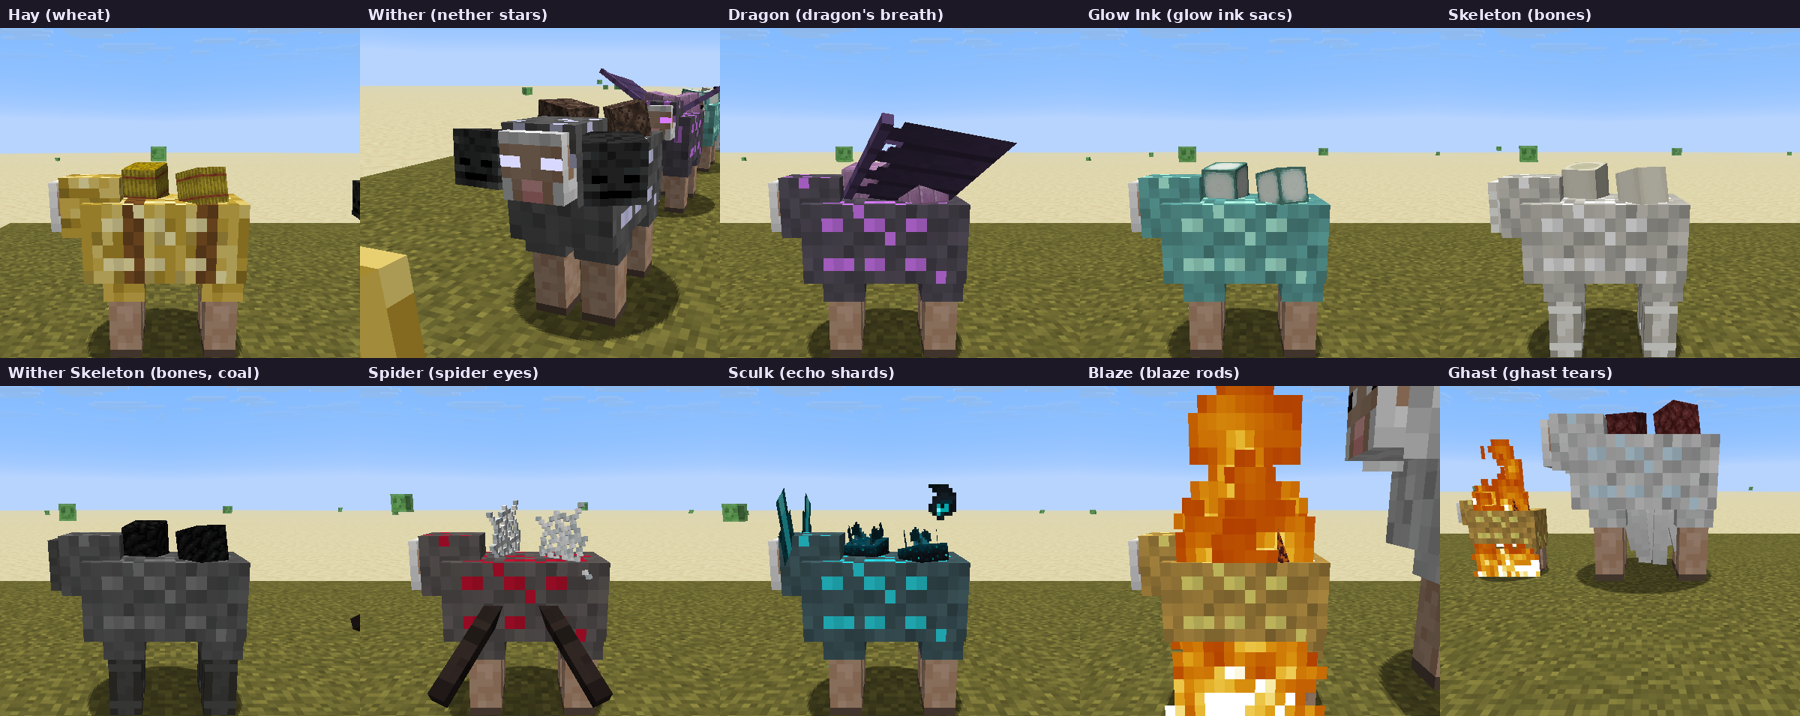
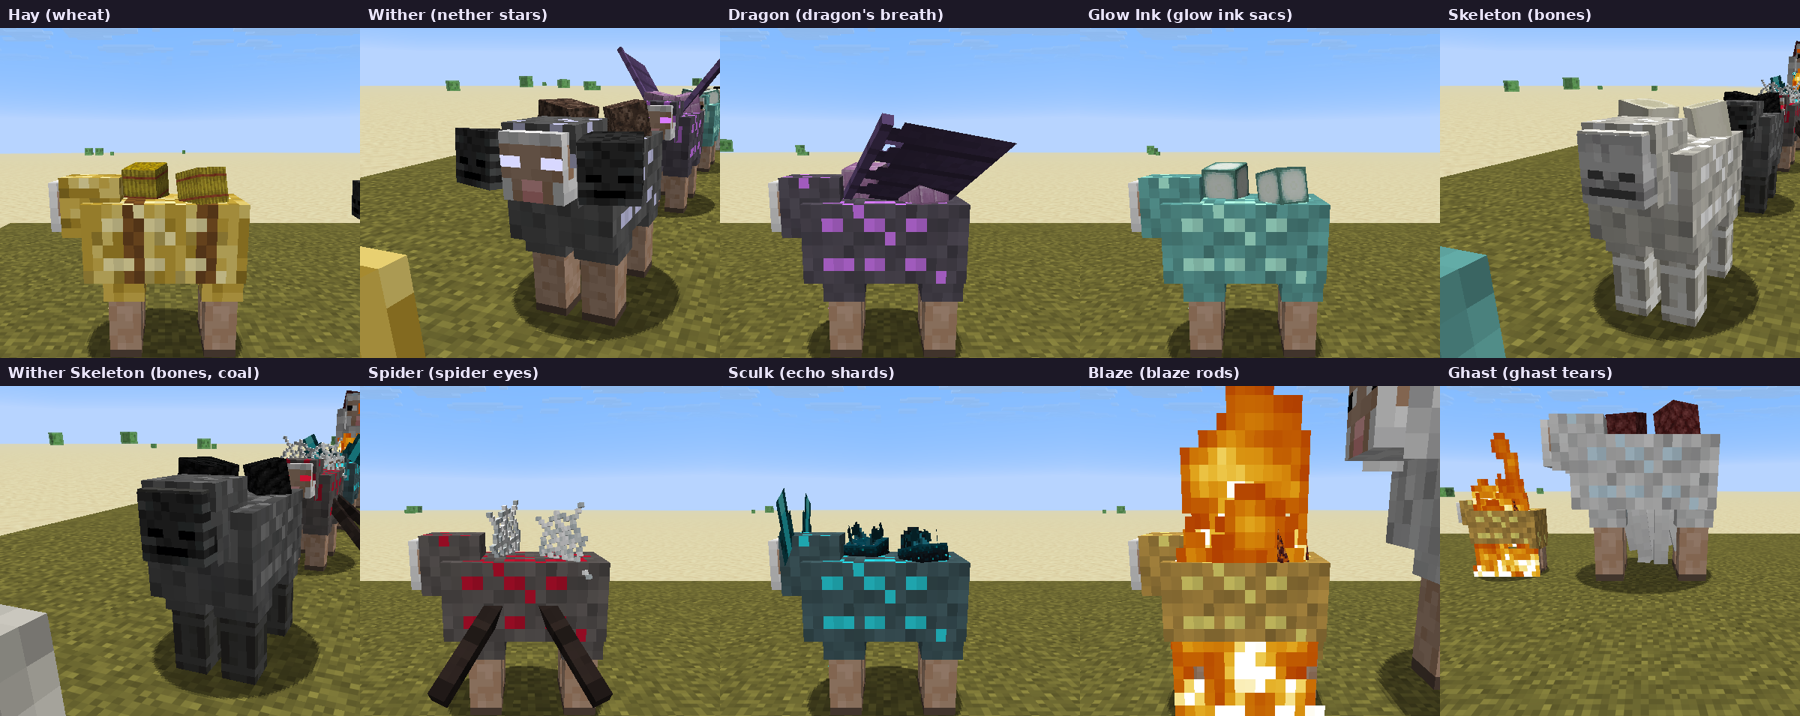
Give the skeleton sheep real skull faces
Resource appearances take an optional "skull_texture" (a 64x32 mob-head
texture) drawn untinted over the sheep's head with a new skull-face
model that follows the head. The Skeleton sheep wears the Skeleton
Skull and the Wither Skeleton sheep the Wither Skeleton Skull. Adds
front-on screenshots of both.

Claude-Session: https://claude.ai/code/session_012iurxobutw9xMP3SqHHLFE

diff --git a/src/main/java/com/jax3/barelyfunctionalcontraptions/sheep/resource/SheepAppearance.java b/src/main/java/com/jax3/barelyfunctionalcontraptions/sheep/resource/SheepAppearance.java
@@ -29,25 +29,29 @@ import net.minecraft.util.StringRepresentable;
  * @param scale        how big the sheep is while infused, as a multiple of its normal size (0.25 to 4; default 1).
  *                     Applied through the {@code minecraft:scale} attribute, so its hitbox, eye height and step
  *                     height grow with it.
+ * @param skullTexture a mob-head texture (the 64x32 layout skulls use, e.g. the skeleton's) drawn untinted over the
+ *                     sheep's head, so its face is that mob's skull
  * @param sounds       sounds played instead of the sheep's bleat, hurt and death sounds while it is infused (even when
  *                     sheared)
  */
-public record SheepAppearance(Optional<Identifier> woolTexture, List<Feature> features, int featureColor, double scale, Sounds sounds) {
+public record SheepAppearance(Optional<Identifier> woolTexture, List<Feature> features, int featureColor, double scale,
+                              Optional<Identifier> skullTexture, Sounds sounds) {
     public static final double MIN_SCALE = 0.25;
     public static final double MAX_SCALE = 4.0;
-    public static final SheepAppearance NONE = new SheepAppearance(Optional.empty(), List.of(), 0xFFFFFF, 1.0, Sounds.NONE);
+    public static final SheepAppearance NONE = new SheepAppearance(Optional.empty(), List.of(), 0xFFFFFF, 1.0, Optional.empty(), Sounds.NONE);
 
     public static final Codec<SheepAppearance> CODEC = RecordCodecBuilder.create(i -> i.group(
             Identifier.CODEC.optionalFieldOf("wool_texture").forGetter(SheepAppearance::woolTexture),
             Feature.CODEC.listOf().optionalFieldOf("features", List.of()).forGetter(SheepAppearance::features),
             SheepResource.COLOR_CODEC.optionalFieldOf("feature_color", 0xFFFFFF).forGetter(SheepAppearance::featureColor),
             Codec.doubleRange(MIN_SCALE, MAX_SCALE).optionalFieldOf("scale", 1.0).forGetter(SheepAppearance::scale),
+            Identifier.CODEC.optionalFieldOf("skull_texture").forGetter(SheepAppearance::skullTexture),
             Sounds.CODEC.optionalFieldOf("sounds", Sounds.NONE).forGetter(SheepAppearance::sounds)
     ).apply(i, SheepAppearance::new));
 
     /** The same appearance with another fleece texture. */
     public SheepAppearance withWoolTexture(Identifier texture) {
-        return new SheepAppearance(Optional.of(texture), features, featureColor, scale, sounds);
+        return new SheepAppearance(Optional.of(texture), features, featureColor, scale, skullTexture, sounds);
     }
 
     public boolean has(Feature feature) {
@@ -55,7 +59,7 @@ public record SheepAppearance(Optional<Identifier> woolTexture, List<Feature> fe
     }
 
     public boolean isEmpty() {
-        return woolTexture.isEmpty() && features.isEmpty() && scale == 1.0 && sounds.isEmpty();
+        return woolTexture.isEmpty() && features.isEmpty() && scale == 1.0 && skullTexture.isEmpty() && sounds.isEmpty();
     }
 
     /**

diff --git a/src/main/java/com/jax3/barelyfunctionalcontraptions/sheep/client/SheepSkullFaceModel.java b/src/main/java/com/jax3/barelyfunctionalcontraptions/sheep/client/SheepSkullFaceModel.java
@@ -1,0 +1,41 @@
+package com.jax3.barelyfunctionalcontraptions.sheep.client;
+
+import com.jax3.barelyfunctionalcontraptions.sheep.ResourcefulSheep;
+import net.minecraft.client.model.animal.sheep.SheepModel;
+import net.minecraft.client.model.geom.ModelLayerLocation;
+import net.minecraft.client.model.geom.ModelPart;
+import net.minecraft.client.model.geom.PartPose;
+import net.minecraft.client.model.geom.builders.CubeDeformation;
+import net.minecraft.client.model.geom.builders.CubeListBuilder;
+import net.minecraft.client.model.geom.builders.LayerDefinition;
+import net.minecraft.client.model.geom.builders.MeshDefinition;
+import net.minecraft.client.model.geom.builders.PartDefinition;
+
+/**
+ * A mob's skull worn as the sheep's head (a resource's {@code skull_texture}, e.g. the Skeleton sheep's).
+ *
+ * <p>The skull is the vanilla mob-head cube (8x8x8 at texture offset 0,0 of a 64x32 texture, as the skull blocks
+ * use) squashed to the sheep's 6x6x8 head and a hair larger, so it covers it. Only the head is drawn; the other parts
+ * are empty but named like {@link SheepModel}'s, so the skull turns and grazes with the sheep.</p>
+ */
+public class SheepSkullFaceModel extends SheepModel {
+    public static final ModelLayerLocation LAYER = new ModelLayerLocation(ResourcefulSheep.id("sheep_skull_face"), "main");
+
+    public SheepSkullFaceModel(ModelPart root) {
+        super(root);
+    }
+
+    public static LayerDefinition createLayer() {
+        MeshDefinition mesh = new MeshDefinition();
+        PartDefinition root = mesh.getRoot();
+        // Head pivot as SheepModel (0, 6, -8); the sheep's head box is x -3..3, y -4..2, z -6..2 around it.
+        PartDefinition head = root.addOrReplaceChild("head", CubeListBuilder.create(), PartPose.offset(0.0F, 6.0F, -8.0F));
+        head.addOrReplaceChild("skull", CubeListBuilder.create().texOffs(0, 0).addBox(-4.0F, -4.0F, -4.0F, 8.0F, 8.0F, 8.0F, new CubeDeformation(0.08F)),
+                PartPose.offset(0.0F, -1.0F, -2.0F).scaled(0.75F, 0.75F, 1.0F));
+        root.addOrReplaceChild("body", CubeListBuilder.create(), PartPose.ZERO);
+        for (String leg : new String[]{"right_hind_leg", "left_hind_leg", "right_front_leg", "left_front_leg"}) {
+            root.addOrReplaceChild(leg, CubeListBuilder.create(), PartPose.ZERO);
+        }
+        return LayerDefinition.create(mesh, 64, 32);
+    }
+}

diff --git a/src/main/java/com/jax3/barelyfunctionalcontraptions/sheep/client/InfusedWoolLayer.java b/src/main/java/com/jax3/barelyfunctionalcontraptions/sheep/client/InfusedWoolLayer.java
@@ -66,6 +66,7 @@ public class InfusedWoolLayer extends RenderLayer<SheepRenderState, SheepModel> 
     private final SheepExtrasModel eyes;
     private final SheepModel bones;
     private final SheepSkullsModel skulls;
+    private final SheepSkullFaceModel skullFace;
 
     public InfusedWoolLayer(RenderLayerParent<SheepRenderState, SheepModel> renderer, EntityModelSet models) {
         super(renderer);
@@ -75,6 +76,7 @@ public class InfusedWoolLayer extends RenderLayer<SheepRenderState, SheepModel> 
         this.eyes = SheepExtrasModel.eyes(models.bakeLayer(SheepExtrasModel.LAYER));
         this.bones = new SheepModel(models.bakeLayer(BONES_LAYER));
         this.skulls = new SheepSkullsModel(models.bakeLayer(SheepSkullsModel.LAYER));
+        this.skullFace = new SheepSkullFaceModel(models.bakeLayer(SheepSkullFaceModel.LAYER));
     }
 
     /** The vanilla sheep body ({@code SheepModel.createBodyLayer}) inflated by a tiny amount. */
@@ -189,10 +191,14 @@ public class InfusedWoolLayer extends RenderLayer<SheepRenderState, SheepModel> 
     /** The extra body parts, bones and glowing eyes a resource's {@code appearance} asks for. */
     private void submitFeatures(PoseStack poseStack, SubmitNodeCollector collector, int lightCoords, SheepRenderState state, Colors colors) {
         SheepAppearance appearance = colors.appearance();
-        if (appearance.features().isEmpty() || state.isInvisible) return;
+        if ((appearance.features().isEmpty() && appearance.skullTexture().isEmpty()) || state.isInvisible) return;
         int tint = ARGB.opaque(appearance.featureColor());
         if (appearance.has(Feature.BONES)) {
             coloredCutoutModelCopyLayerRender(bones, BONES_TEXTURE, poseStack, collector, lightCoords, state, tint, 1);
+        }
+        if (appearance.skullTexture().isPresent()) {
+            // A mob's own skull texture over the head, untinted (the Skeleton sheep wears a Skeleton Skull).
+            coloredCutoutModelCopyLayerRender(skullFace, appearance.skullTexture().get(), poseStack, collector, lightCoords, state, -1, 1);
         }
         if (appearance.has(Feature.EXTRA_HEADS)) {
             // The game's own Wither Skeleton Skull texture, untinted.

diff --git a/src/main/java/com/jax3/barelyfunctionalcontraptions/sheep/client/DevScreenshotHarness.java b/src/main/java/com/jax3/barelyfunctionalcontraptions/sheep/client/DevScreenshotHarness.java
@@ -1118,7 +1118,7 @@ public final class DevScreenshotHarness {
 
     private static void themedSheepTick(Minecraft mc, MinecraftServer server) {
         // 60: stage; 120: overview; then one close-up per sheep every 25 ticks; then the overview again at night.
-        int closeStart = 130, perSheep = 25, night = closeStart + THEMED.length * perSheep + 65;
+        int closeStart = 130, perSheep = 25, night = closeStart + THEMED.length * perSheep + 125;
         if (tick == 60) server.execute(() -> themedSheepScene(server));
         else if (tick == 70) setHudHidden(mc, true);
         else if (tick == 120) shot(mc, "52_themed_sheep");
@@ -1132,6 +1132,14 @@ public final class DevScreenshotHarness {
             } else if (step == perSheep - 1) {
                 shot(mc, "53_themed_" + THEMED[i]);
             }
+        } else if (tick == night - 120 || tick == night - 90) {
+            // The Skeleton and Wither Skeleton sheep from the front, to show their skull faces.
+            int i = tick == night - 120 ? 4 : 5;
+            command(server, String.format(java.util.Locale.ROOT, "tp @a %.2f %d %.2f 250 18", themedX(i) - 2.6, origin.getY(), origin.getZ() - 5 + 1.6));
+        } else if (tick == night - 92) {
+            shot(mc, "53_themed_skeleton_front");
+        } else if (tick == night - 62) {
+            shot(mc, "53_themed_wither_skeleton_front");
         } else if (tick == night - 60) {
             command(server, String.format(java.util.Locale.ROOT, "tp @a %.2f %d %.2f 160 16", origin.getX() + 1.5, origin.getY(), origin.getZ() + 5.8));
         } else if (tick == night - 32) {

diff --git a/src/main/java/com/jax3/barelyfunctionalcontraptions/sheep/gametest/ModGameTests.java b/src/main/java/com/jax3/barelyfunctionalcontraptions/sheep/gametest/ModGameTests.java
@@ -519,7 +519,7 @@ public final class ModGameTests {
         ghast.setSheared(true);
         h.assertTrue(play.apply(ghast, net.minecraft.sounds.SoundEvents.SHEEP_AMBIENT).equals(net.minecraft.sounds.SoundEvents.GHAST_SCREAM.location()), "a sheared Ghast sheep still screams");
         // The "screaming" feature on its own gives the screaming goat's sounds; listed sounds win over it.
-        var screaming = new com.jax3.barelyfunctionalcontraptions.sheep.resource.SheepAppearance(Optional.empty(), List.of(Feature.SCREAMING), 0xFFFFFF, 1.0,
+        var screaming = new com.jax3.barelyfunctionalcontraptions.sheep.resource.SheepAppearance(Optional.empty(), List.of(Feature.SCREAMING), 0xFFFFFF, 1.0, Optional.empty(),
                 com.jax3.barelyfunctionalcontraptions.sheep.resource.SheepAppearance.Sounds.NONE);
         var replaced = com.jax3.barelyfunctionalcontraptions.sheep.entity.SheepFeatureEvents.replacement(screaming, net.minecraft.sounds.SoundEvents.SHEEP_HURT);
         h.assertTrue(replaced.isPresent() && replaced.get().value() == net.minecraft.sounds.SoundEvents.GOAT_SCREAMING_HURT, "screaming = screaming goat, got " + replaced);

diff --git a/src/main/java/com/jax3/barelyfunctionalcontraptions/sheep/client/ResourcefulSheepClient.java b/src/main/java/com/jax3/barelyfunctionalcontraptions/sheep/client/ResourcefulSheepClient.java
@@ -47,6 +47,7 @@ public final class ResourcefulSheepClient {
         modBus.addListener((EntityRenderersEvent.RegisterLayerDefinitions event) -> {
             event.registerLayerDefinition(SheepExtrasModel.LAYER, SheepExtrasModel::createLayer);
             event.registerLayerDefinition(SheepSkullsModel.LAYER, SheepSkullsModel::createLayer);
+            event.registerLayerDefinition(SheepSkullFaceModel.LAYER, SheepSkullFaceModel::createLayer);
             event.registerLayerDefinition(PlayerSkinSheepModel.WIDE, () -> PlayerSkinSheepModel.createLayer(false));
             event.registerLayerDefinition(PlayerSkinSheepModel.SLIM, () -> PlayerSkinSheepModel.createLayer(true));
             event.registerLayerDefinition(InfusedWoolLayer.BONES_LAYER, InfusedWoolLayer::createBonesLayer);

diff --git a/README.md b/README.md
@@ -480,8 +480,8 @@ Ten more built-in resources turn the sheep into a little version of the mob the 
 | Nether Star | Wither | Two Wither Skeleton Skulls either side of its own head that look around on their own, and glowing eyes | 2–4 Nether Star + 1 Soul Sand | 400,000 / 20 s |
 | Dragon's Breath | Dragon | Flapping dragon wings, glowing purple eyes | 2–4 Dragon's Breath (+5% Ender Pearl) | 80,000 / 10 s |
 | Glow Ink Sac | Glow Ink | Its fleece glows in the dark and **lights up the block it stands in** (light level 12) | 2–4 Glow Ink Sac | 8,000 / 3 s |
-| Bone Block | Skeleton | A skull face and bony legs | 2–4 Bone (+10% Arrow) | 6,000 / 3 s |
-| Wither Rose | Wither Skeleton | A charred skull face and bony legs | 2–4 Bone + 2 Coal (+2.5% Wither Skeleton Skull) | 20,000 / 5 s |
+| Bone Block | Skeleton | A Skeleton Skull for a face (the game's own skull texture) and bony legs | 2–4 Bone (+10% Arrow) | 6,000 / 3 s |
+| Wither Rose | Wither Skeleton | A Wither Skeleton Skull for a face and charred, bony legs | 2–4 Bone + 2 Coal (+2.5% Wither Skeleton Skull) | 20,000 / 5 s |
 | Spider Eye | Spider | Four extra spider legs that move as it walks, and glowing red eyes | 2–4 Spider Eye + 4 String | 6,000 / 3 s |
 | Echo Shard | Sculk | Sculk tendrils on its head, sculk sensors on its back and fleece strands that glow | 2–4 Echo Shard + 2 Sculk | 80,000 / 10 s |
 | Blaze Rod | Blaze | Permanently on fire, without burning or taking damage | 2–4 Blaze Rod (+10% Glowstone Dust) | 20,000 / 5 s |
@@ -716,6 +716,7 @@ Definitions live in `data/<namespace>/barelyfunctionalcontraptions/sheep_resourc
     "feature_color": "#7A5C99",
     "wool_texture": "mypack:textures/entity/sheep/tin_wool.png",
     "scale": 1.5,
+    "skull_texture": "minecraft:textures/entity/skeleton/skeleton.png",
     "sounds": { "ambient": "minecraft:entity.ghast.scream", "hurt": "minecraft:entity.ghast.hurt", "death": "minecraft:entity.ghast.death" }
   }
 }
@@ -729,7 +730,7 @@ Definitions live in `data/<namespace>/barelyfunctionalcontraptions/sheep_resourc
 | `wings` | A pair of flapping dragon wings |
 | `extra_legs` | Four long spider legs along the sides |
 | `tentacles` | Ghast tentacles hanging under the belly |
-| `bones` | A skull face and bony legs |
+| `bones` | A drawn skull face and bony legs (a `skull_texture` covers the face) |
 | `sculk` | Sculk tendrils on the head, and accent strands that glow |
 | `glowing_eyes` | Eyes in the `accent_color` that glow in the dark |
 | `glowing` | The fleece glows, and the sheep lights the block it stands in (light level 12) |
@@ -739,6 +740,7 @@ Definitions live in `data/<namespace>/barelyfunctionalcontraptions/sheep_resourc
 - `feature_color` tints the wings, legs, tentacles and bones. The default is white, which shows them as drawn. Sculk tendrils have their own colours, so leave it white for them.
 - `scale` makes the sheep bigger or smaller while it's infused, from `0.25` to `4` times its normal size (default `1`). It goes through the vanilla `minecraft:scale` attribute as a modifier (`barelyfunctionalcontraptions:resource_scale`, multiplying the base value), so the hitbox, eye height and step height change with it, and it stacks with anything else that changes the scale, such as the `/attribute` command. Lambs stay in proportion. Shearing doesn't shrink the sheep; it goes back to normal once the infusion runs out.
 - `sounds` replaces the sheep's `ambient` (bleat), `hurt` and `death` sounds with any sound event id, vanilla or modded. Leave one out to keep the sheep's own. Like the size, the voice lasts as long as the infusion, even while the sheep is sheared.
+- `skull_texture` puts a mob's skull over the sheep's head, untinted. It takes any texture in the 64x32 mob-head layout the skull blocks use, such as `minecraft:textures/entity/skeleton/skeleton.png` or `.../wither_skeleton.png`.
 - `wool_texture` replaces the greyscale fleece. It uses the vanilla sheep wool layout (64x32) and is still tinted with `wool_color`, so set `wool_color` to `"#FFFFFF"` to show it as drawn. The texture must come from a resource pack.
 
 **Ores vs other materials.** For an ore, set `primary_output` to the raw material (as the built-ins do with Raw Iron). If you leave `primary_output` out, the separator gives back the fed item, which suits gems, logs and stone. A block input never implies 9 outputs automatically; you choose the numbers.

diff --git a/TESTING.md b/TESTING.md
@@ -19,7 +19,7 @@ Environment for the results below: Minecraft 26.3, NeoForge 26.3.0.101, JEI 31.1
 | GameTest `ghast_sheep_screams_like_a_ghast` | ✅ A Ghast sheep's bleat becomes the ghast's scream, and its hurt and death sounds the ghast's, even when sheared; a plain sheep still bleats; the `screaming` feature on its own gives the screaming goat's sounds |
 | GameTest `ghast_sheep_is_twice_the_size` | ✅ A Ghast sheep's `minecraft:scale` becomes 2 and its hitbox doubles; shearing doesn't change it, and once the infusion is gone it's back to 1 with the modifier removed |
 | Generator GameTests | ✅ Updated: Wheat and Bone Meal are no longer generated (the Hay and Skeleton sheep cover them), and a generated copy of either is flagged as a duplicate |
-| Real client (`-PharnessScene=themed_sheep`) | ✅ Each sheep photographed side-on (`52_themed_sheep.png`): Wither Skeleton Skulls either side of the Wither sheep's head, using the game's skull texture (front view `53_themed_wither_front.png`), Dragon wings, spider legs, ghast tentacles, skull faces and bony legs, sculk tendrils with glowing strands, on-fire flames, hay fleece. At night (`53_themed_sheep_night.png`) the Glow Ink sheep is fully bright and lights the grass, and glowing eyes and sculk strands stay lit. No errors from the mod in the log. |
+| Real client (`-PharnessScene=themed_sheep`) | ✅ Each sheep photographed side-on (`52_themed_sheep.png`): Wither Skeleton Skulls either side of the Wither sheep's head, using the game's skull texture (front view `53_themed_wither_front.png`), Dragon wings, spider legs, ghast tentacles, Skeleton and Wither Skeleton Skull faces (front views `53_themed_skeleton_front.png`, `53_themed_wither_skeleton_front.png`) and bony legs, sculk tendrils with glowing strands, on-fire flames, hay fleece. At night (`53_themed_sheep_night.png`) the Glow Ink sheep is fully bright and lights the grass, and glowing eyes and sculk strands stay lit. No errors from the mod in the log. |
 | Not yet checked in the client | The replaced sounds are only covered by the GameTest, not listened to in game (the client loads the definitions with no errors) |
 
 ### Integration GameTests (`com.jax3.barelyfunctionalcontraptions.gametest.IntegrationGameTests`)
